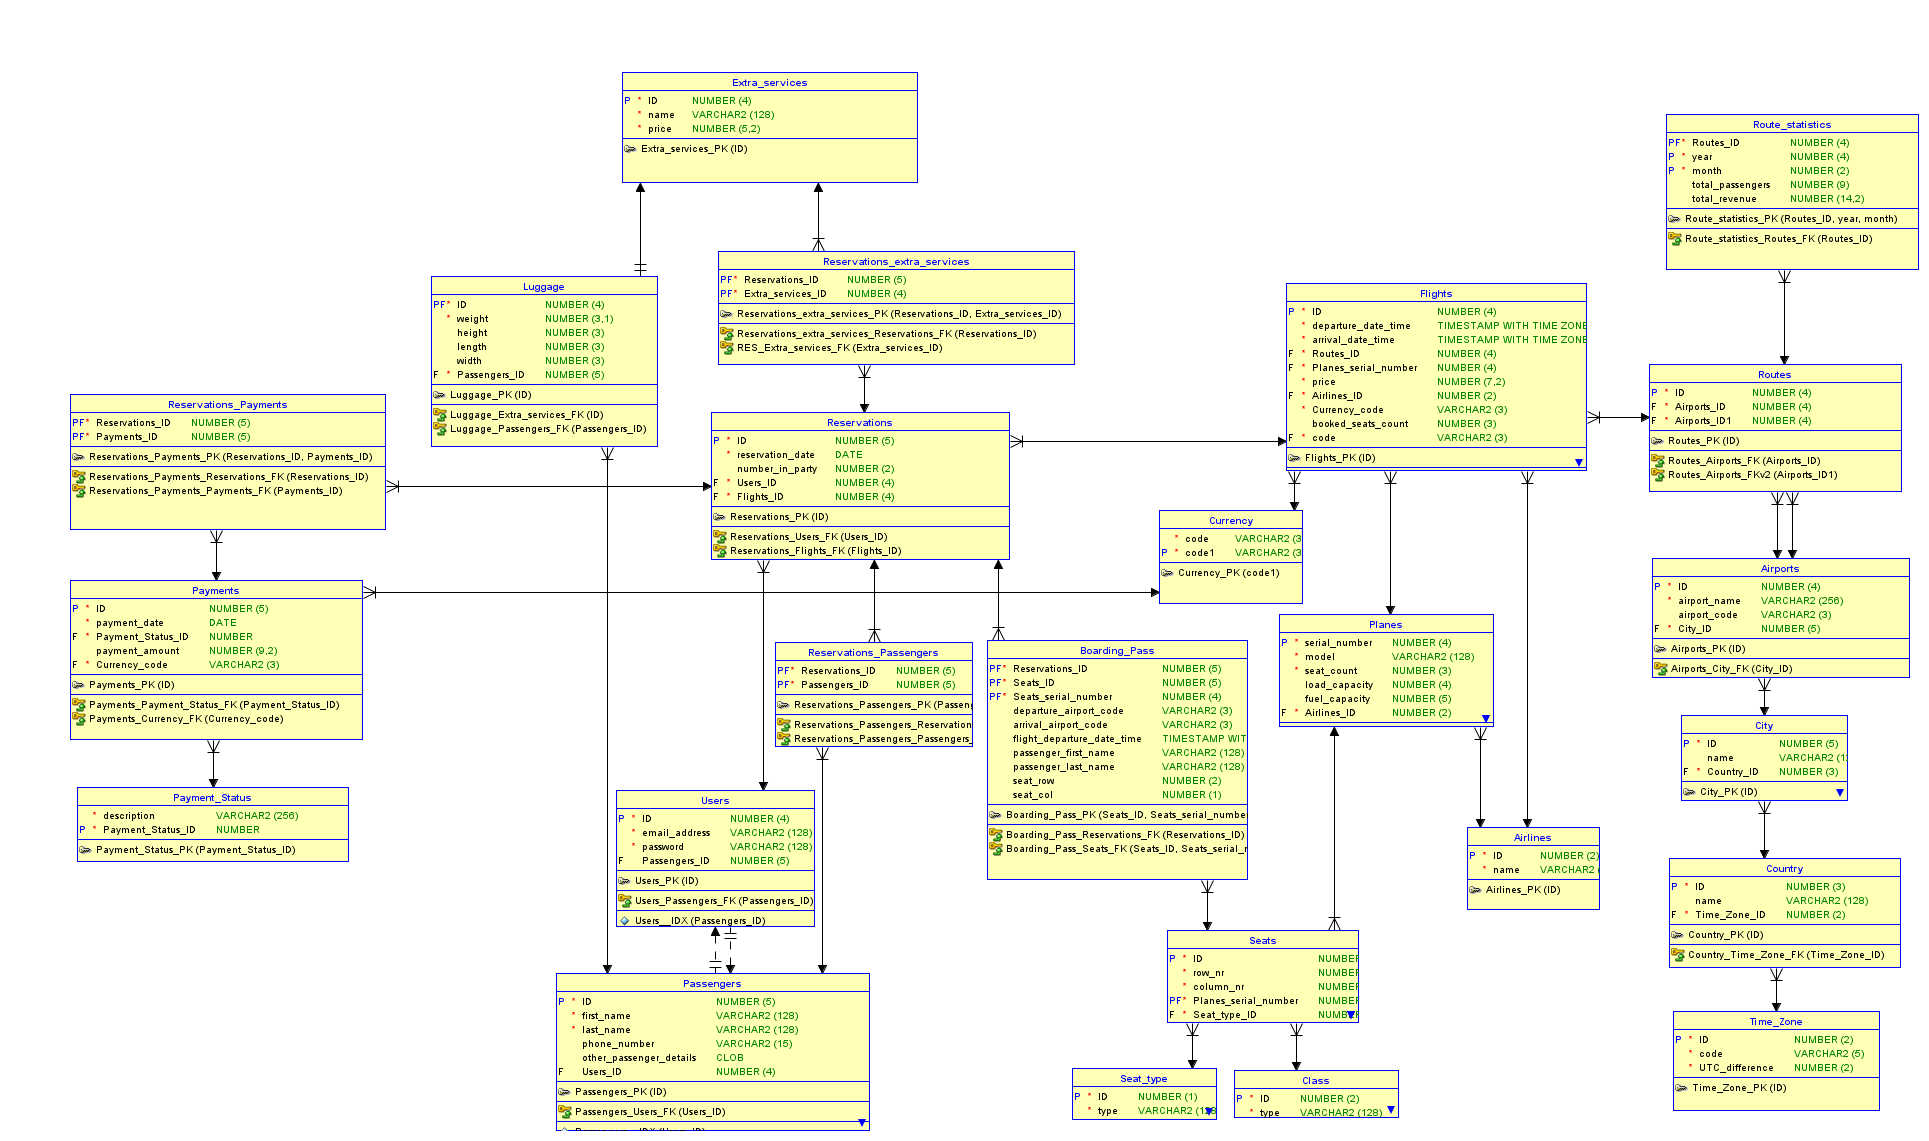
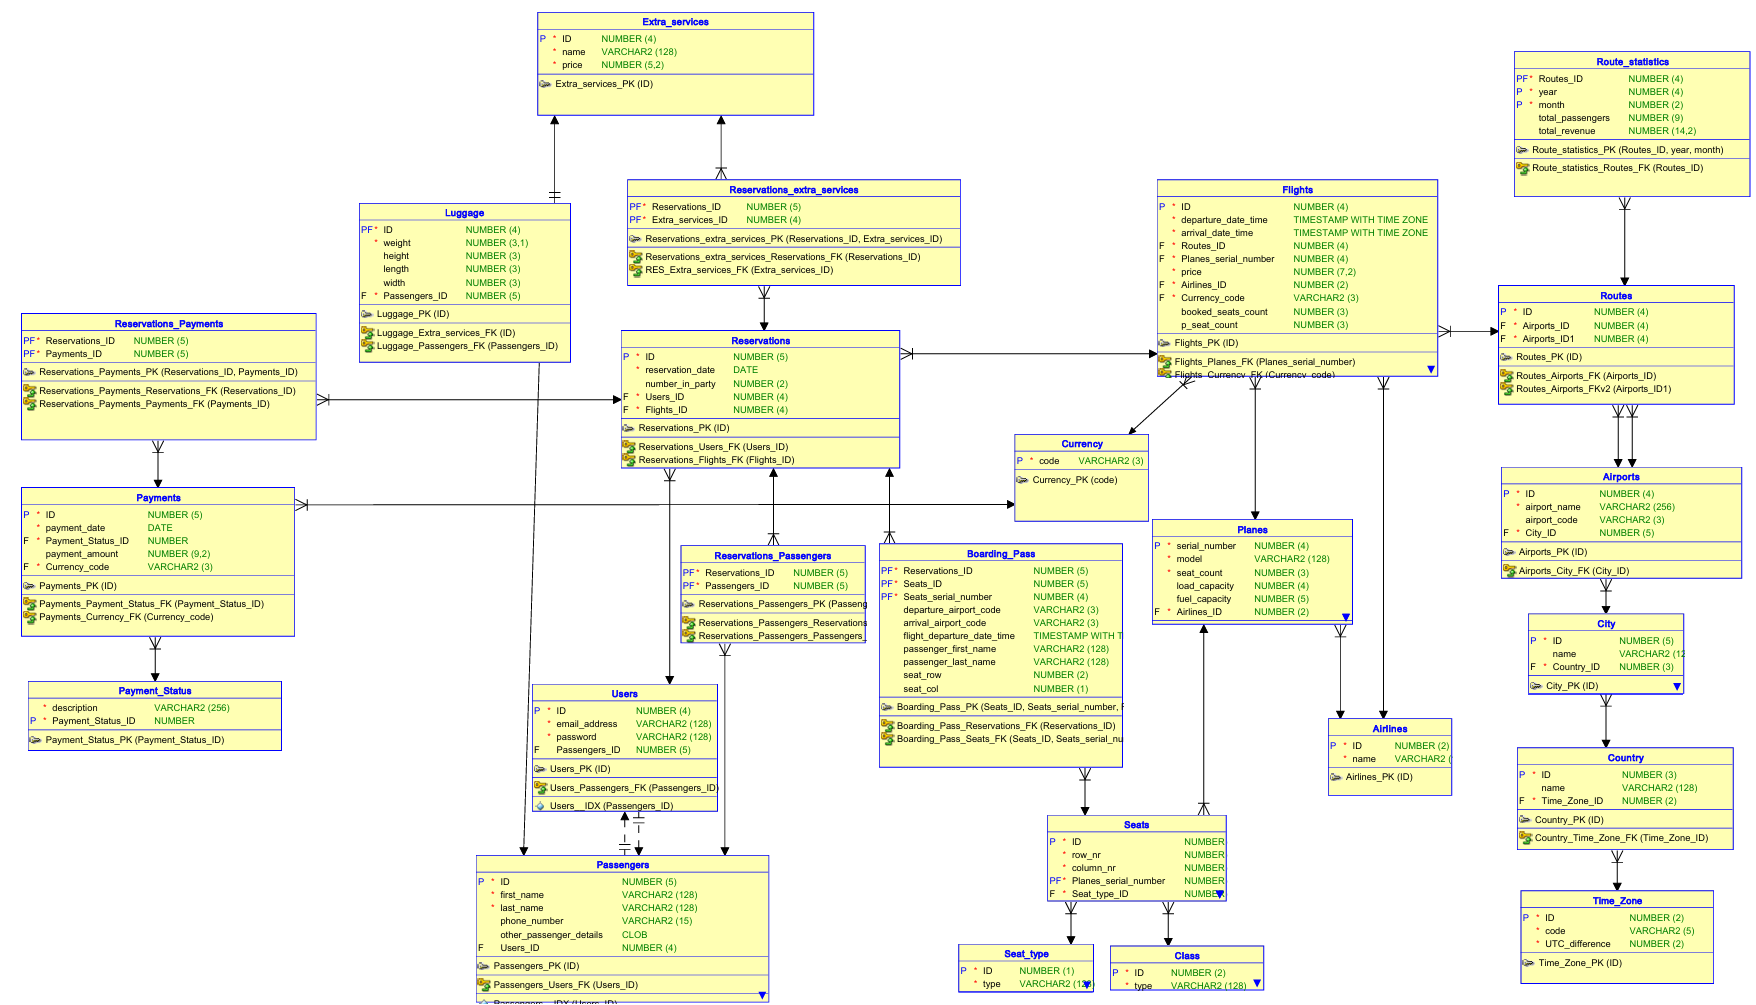
seat_count pre-join added

diff --git a/Readme.md b/Readme.md
@@ -20,6 +20,8 @@ Pomocne, ponieważ przy locie chcemy od razu wyświetlić też informację o lin
 - Pre-join atrybutów
 1. Tabela Boarding Pass - duplikowane atrybuty: `departure_airport_code, arrival_airport_code, flight_departure_time, passenger_first_name, passenger_last_name, seat_row, seat_col`<br>
 Odpowiada temu, że chcemy, aby karta pokładowa była niezmienna w czasie. Dane kart pokładowych są szybkiej wyświetlane i mamy informację o stanie danych z przeszłości, ponieważ w tym przypadku taki nas interesuje.
+2. Tabela Flights - pre-join atrybutu `seat_count` z tabeli Planes<br>
+Utworzone, żeby przyspieszyć porównywanie z kolumną `booked_seats`.
 - Kolumny agregujące
 1. Tabela Flights - dodana kolumna `booked_seats`<br>
 Pomocna do częstego odczytywania stopnia zapełnienia lotu - może być to przydatne, żeby nie doprowadzić do przepełnienia lotu.